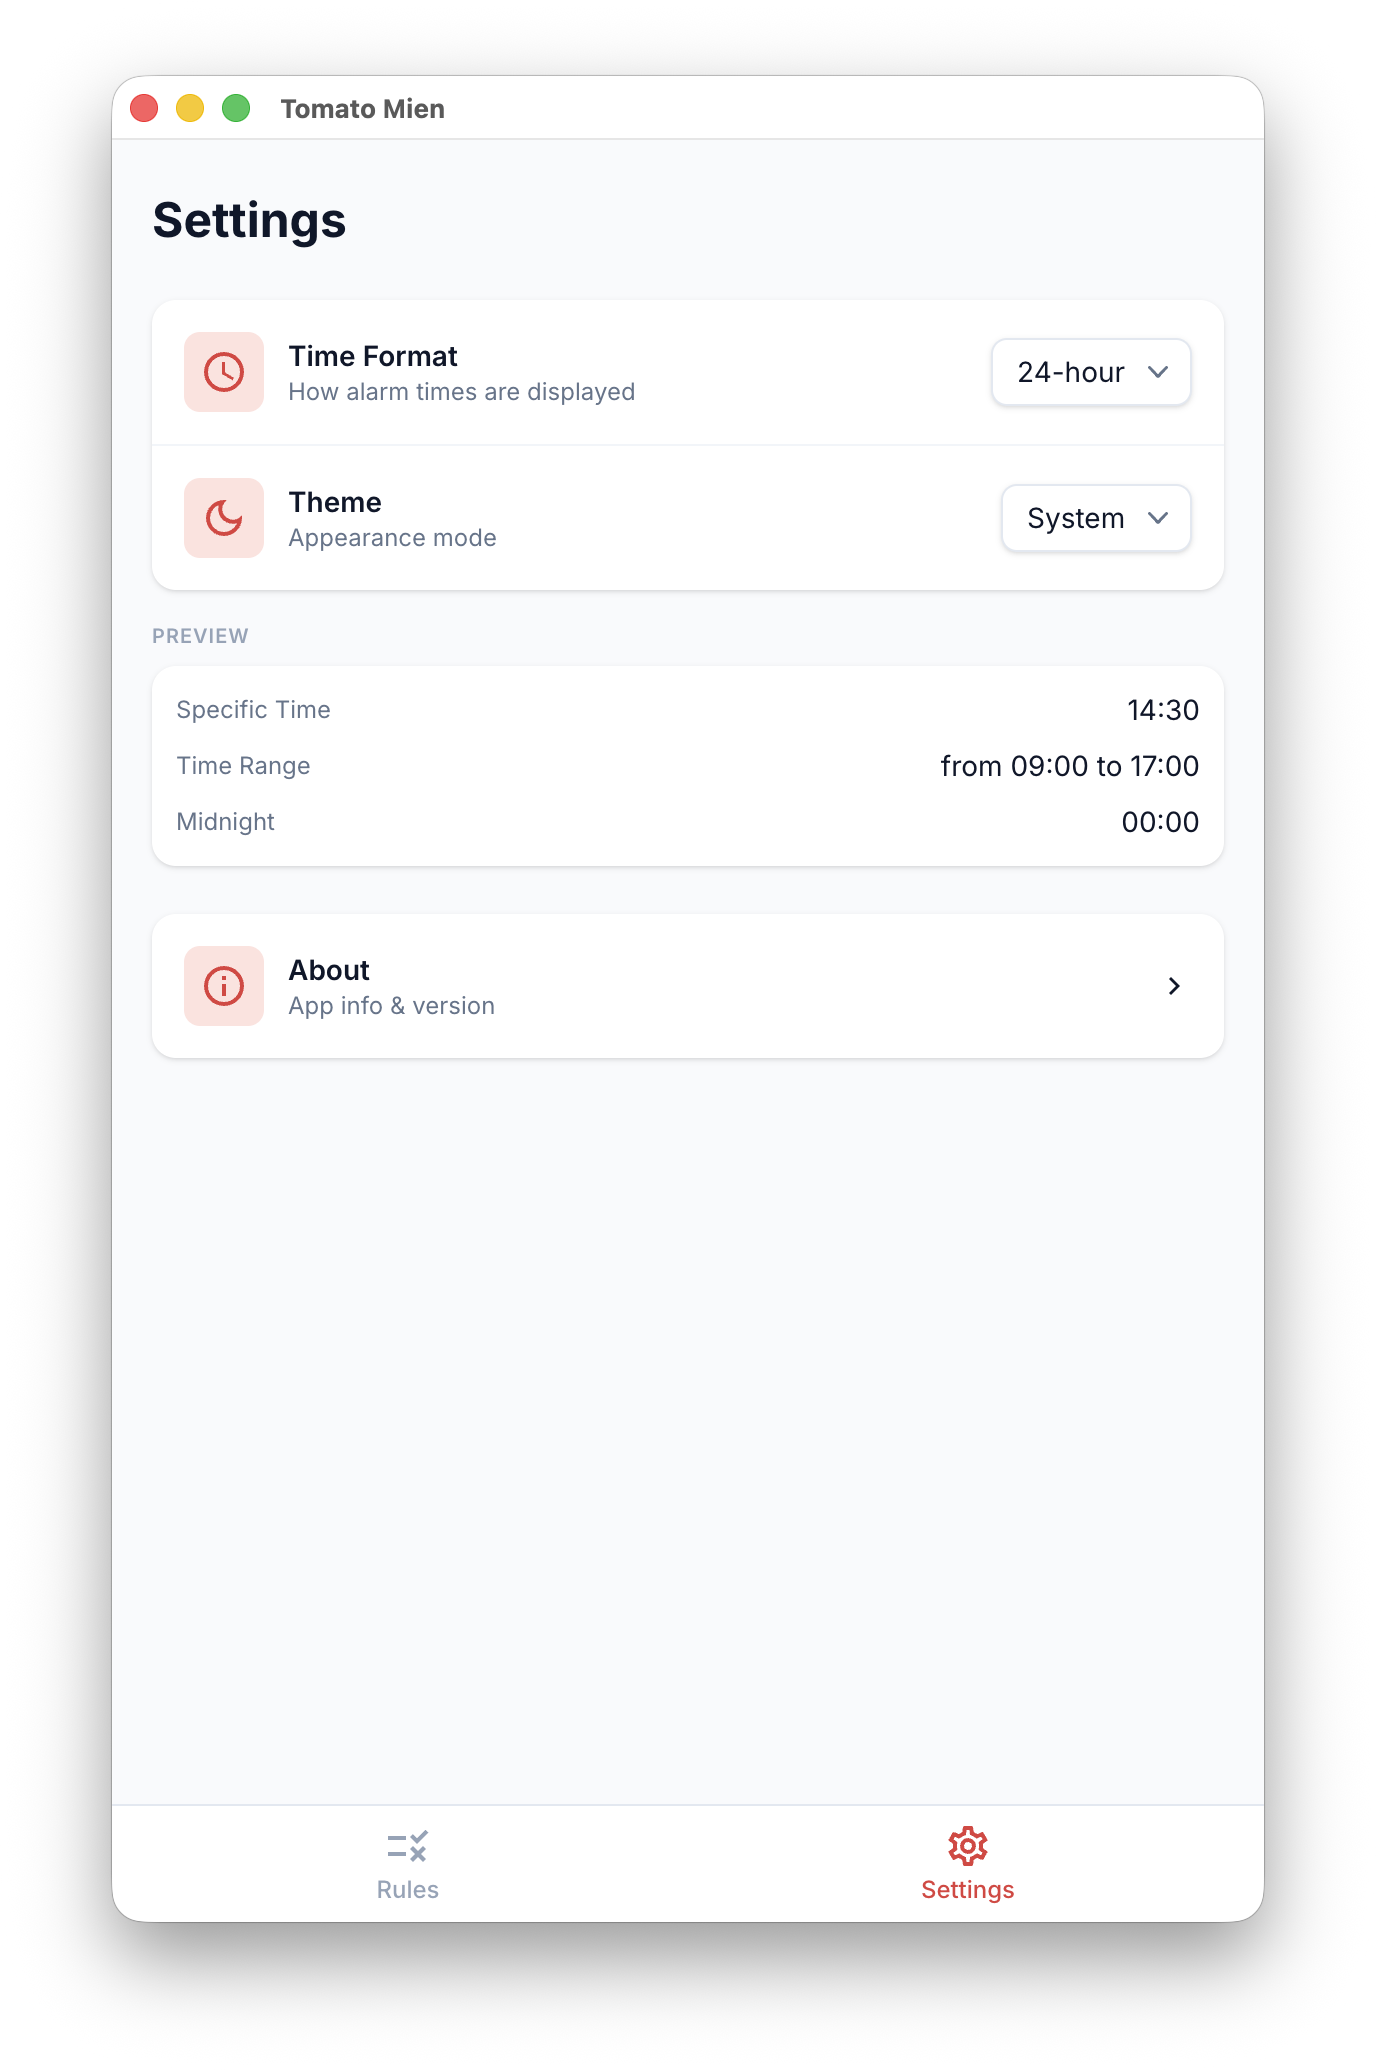
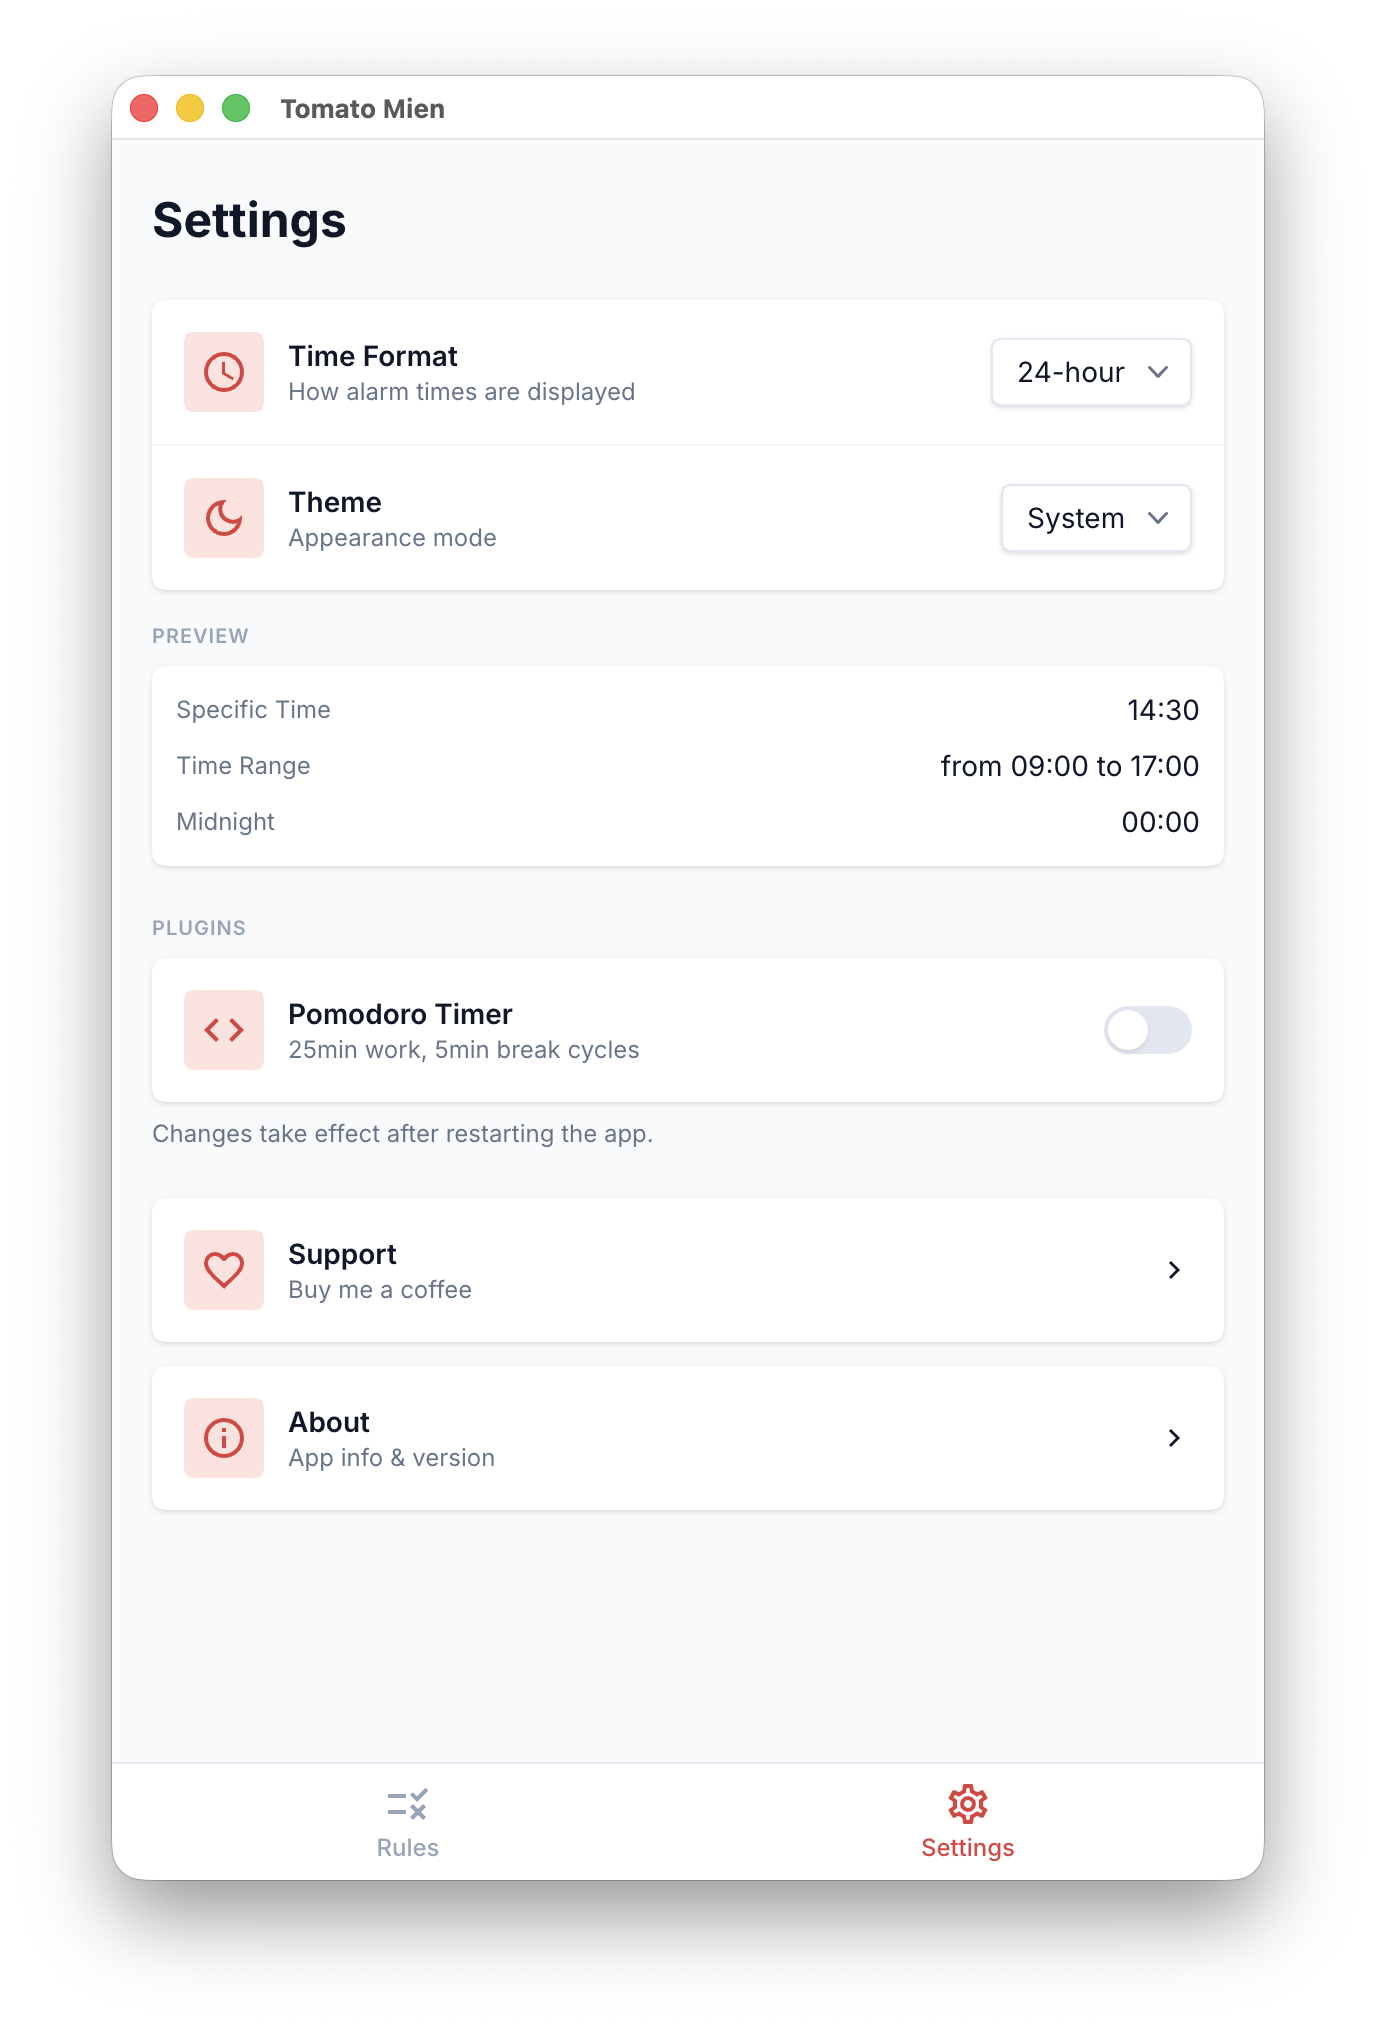
docs: 홍보 페이지 업데이트
- 포모도로 기능 추가
- 후원 QR 추가

diff --git a/packages/docs/src/index.html b/packages/docs/src/index.html
@@ -6,7 +6,7 @@
     <title>Tomato Mien - Simple Rule-Based Alarm App</title>
     <meta
       name="description"
-      content="Tomato Mien is a simple desktop app for setting up rule-based alarms. Define triggers (intervals, specific times) and filters (time ranges) to create your own alarm rules."
+      content="Tomato Mien is a desktop app for rule-based alarms and Pomodoro focus sessions. Create flexible reminder rules, enable the Pomodoro timer, and stay productive offline."
     />
 
     <link rel="canonical" href="https://einere.github.io/tomato-mien/" />
@@ -19,7 +19,7 @@
     />
     <meta
       property="og:description"
-      content="A simple desktop app for rule-based alarms. Define triggers and filters to get notified exactly when you need."
+      content="A desktop app for flexible alarm rules and focused Pomodoro sessions, with offline support and native notifications."
     />
     <meta
       property="og:image"
@@ -41,7 +41,7 @@
     />
     <meta
       name="twitter:description"
-      content="A simple desktop app for rule-based alarms. Define triggers and filters to get notified exactly when you need."
+      content="A desktop app for flexible alarm rules and focused Pomodoro sessions, with offline support and native notifications."
     />
     <meta
       name="twitter:image"
@@ -54,7 +54,7 @@
         "@context": "https://schema.org",
         "@type": "SoftwareApplication",
         "name": "Tomato Mien",
-        "description": "A simple desktop app for setting up rule-based alarms. Define triggers (intervals, specific times) and filters (time ranges) to create your own alarm rules.",
+        "description": "A desktop app for flexible rule-based alarms and Pomodoro focus sessions. Create reminder rules, manage settings, and stay productive offline.",
         "url": "https://einere.github.io/tomato-mien/",
         "applicationCategory": "UtilitiesApplication",
         "operatingSystem": "macOS, Windows, Linux",
@@ -78,6 +78,8 @@
           "Interval alarms (e.g. every 15, 25, 30 minutes)",
           "Specific time alarms (e.g. 2:30 PM)",
           "Time range filters to restrict when alarms fire",
+          "Optional Pomodoro timer with 25-minute focus and 5-minute break cycles",
+          "Plugin-based Pomodoro activation from Settings",
           "Background alarm evaluation via Web Worker",
           "Native desktop notifications with sound",
           "Rule management dashboard with search and sort",
@@ -123,6 +125,14 @@
             "acceptedAnswer": {
               "@type": "Answer",
               "text": "Click the + button to create a new rule, give it a name, add triggers (interval or specific time), optionally set filters (time ranges), and toggle the rule on."
+            }
+          },
+          {
+            "@type": "Question",
+            "name": "How do I enable the Pomodoro timer?",
+            "acceptedAnswer": {
+              "@type": "Answer",
+              "text": "Open Settings, go to the Plugins section, and turn on the Pomodoro Timer toggle. Restart the app to apply the change, then the Pomodoro tab will appear in the bottom navigation."
             }
           },
           {
@@ -453,7 +463,7 @@
         >
           Manage your alarm rules effortlessly with an intuitive interface
         </p>
-        <div class="grid gap-6 sm:grid-cols-2 lg:grid-cols-3">
+        <div class="grid gap-6 sm:grid-cols-2 lg:grid-cols-4">
           <div
             class="overflow-hidden rounded-2xl border border-gray-200 bg-white shadow-sm dark:border-gray-800 dark:bg-gray-900"
           >
@@ -492,8 +502,25 @@
             class="overflow-hidden rounded-2xl border border-gray-200 bg-white shadow-sm dark:border-gray-800 dark:bg-gray-900"
           >
             <img
+              src="assets/screenshots/pomodoro_screen.png"
+              alt="Tomato Mien Pomodoro screen with a circular timer, session progress dots, and a start button"
+              width="1376"
+              height="2070"
+              class="w-full"
+              loading="lazy"
+            />
+            <div class="p-4">
+              <p class="text-sm font-medium text-gray-600 dark:text-gray-400">
+                Pomodoro Timer
+              </p>
+            </div>
+          </div>
+          <div
+            class="overflow-hidden rounded-2xl border border-gray-200 bg-white shadow-sm dark:border-gray-800 dark:bg-gray-900"
+          >
+            <img
               src="assets/screenshots/settings_screen.png"
-              alt="Tomato Mien settings screen with time format, theme, preview section, and about menu"
+              alt="Tomato Mien settings screen with time format, theme, preview section, and Pomodoro plugin toggle"
               width="1376"
               height="2070"
               class="w-full"
@@ -853,6 +880,35 @@
             <summary
               class="flex cursor-pointer items-center justify-between p-6 font-semibold"
             >
+              How do I enable the Pomodoro timer?
+              <svg
+                aria-hidden="true"
+                focusable="false"
+                class="h-5 w-5 shrink-0 text-gray-500 transition-transform group-open:rotate-180"
+                fill="none"
+                stroke="currentColor"
+                stroke-width="2"
+                viewBox="0 0 24 24"
+              >
+                <path
+                  stroke-linecap="round"
+                  stroke-linejoin="round"
+                  d="M19 9l-7 7-7-7"
+                />
+              </svg>
+            </summary>
+            <div class="px-6 pb-6 text-gray-600 dark:text-gray-400">
+              Open Settings, go to the Plugins section, and turn on the
+              Pomodoro Timer toggle. Restart the app to apply the change, then
+              the Pomodoro tab will appear in the bottom navigation.
+            </div>
+          </details>
+          <details
+            class="group rounded-2xl border border-gray-200 bg-gray-50 dark:border-gray-800 dark:bg-gray-900"
+          >
+            <summary
+              class="flex cursor-pointer items-center justify-between p-6 font-semibold"
+            >
               Does it work in the background?
               <svg
                 aria-hidden="true"
@@ -1085,36 +1141,13 @@
             </a>
           </div>
         </div>
-        <!-- Build from source -->
-        <div
-          class="mt-8 rounded-2xl border border-gray-200 bg-gray-50 p-6 dark:border-gray-800 dark:bg-gray-900"
-        >
-          <h3 class="mb-3 text-lg font-semibold">Build from Source</h3>
-          <p class="mb-3 text-sm text-gray-600 dark:text-gray-400">
-            Requires <strong>Node.js 18+</strong> and <strong>npm 10+</strong>
-          </p>
-          <pre
-            class="overflow-x-auto rounded-lg bg-gray-900 p-4 text-sm text-gray-100 dark:bg-gray-950"
-          ><code>git clone https://github.com/Einere/tomato-mien.git
-cd tomato-mien
-npm install
-
-# Development (with hot reload)
-npm run electron:dev
-
-# Production build (run locally)
-npm run build
-npm run electron</code></pre>
-        </div>
       </div>
     </section>
 
-    <!-- Support (hidden for App Store review) -->
-    <!--
+    <!-- Support -->
     <section id="support" class="px-4 py-20 sm:py-28">
       <div class="mx-auto max-w-5xl">
         <div class="mb-12 text-center">
-          <div class="mb-4 text-5xl">&#9749;</div>
           <h2 class="mb-3 text-3xl font-bold tracking-tight sm:text-4xl">
             Support This Project
           </h2>
@@ -1123,37 +1156,7 @@ npm run electron</code></pre>
             support helps keep this project alive!
           </p>
         </div>
-        <div class="mx-auto grid max-w-2xl gap-6 sm:grid-cols-2">
-          <div
-            class="flex flex-col items-center rounded-2xl border border-gray-200 bg-gray-50 p-8 text-center dark:border-gray-800 dark:bg-gray-900"
-          >
-            <div class="mb-3 text-4xl">&#127819;</div>
-            <h3 class="mb-2 text-xl font-semibold">Lemon Squeezy</h3>
-            <p class="mb-6 text-sm text-gray-600 dark:text-gray-400">
-              Pay with credit card via Lemon Squeezy
-            </p>
-            <a
-              href="https://tomato-mien.lemonsqueezy.com/checkout/buy/5457327e-10c4-449a-b3c0-e63264a89720?discount=0"
-              target="_blank"
-              rel="noopener noreferrer"
-              class="bg-tomato-600 hover:bg-tomato-700 inline-flex items-center gap-2 rounded-xl px-6 py-3 font-semibold text-white shadow-sm transition hover:shadow-md"
-            >
-              Buy me a coffee
-              <svg
-                class="h-4 w-4"
-                fill="none"
-                stroke="currentColor"
-                stroke-width="2"
-                viewBox="0 0 24 24"
-              >
-                <path
-                  stroke-linecap="round"
-                  stroke-linejoin="round"
-                  d="M14 5l7 7m0 0l-7 7m7-7H3"
-                />
-              </svg>
-            </a>
-          </div>
+        <div class="mx-auto max-w-md">
           <div
             class="flex flex-col items-center rounded-2xl border border-gray-200 bg-gray-50 p-8 text-center dark:border-gray-800 dark:bg-gray-900"
           >
@@ -1162,39 +1165,37 @@ npm run electron</code></pre>
             <p class="mb-6 text-sm text-gray-600 dark:text-gray-400">
               Scan QR code with the Toss app
             </p>
-            <button
-              id="toss-toggle"
-              type="button"
-              class="inline-flex items-center gap-2 rounded-xl border border-gray-300 px-6 py-3 font-semibold transition hover:border-gray-400 hover:bg-gray-100 dark:border-gray-700 dark:hover:border-gray-600 dark:hover:bg-gray-800"
-            >
-              Show QR Code
-              <svg
-                id="toss-chevron"
-                class="h-4 w-4 transition-transform"
-                fill="none"
-                stroke="currentColor"
-                stroke-width="2"
-                viewBox="0 0 24 24"
+            <details class="group w-full">
+              <summary
+                class="mx-auto inline-flex cursor-pointer list-none items-center gap-2 rounded-xl border border-gray-300 px-6 py-3 font-semibold transition hover:border-gray-400 hover:bg-gray-100 dark:border-gray-700 dark:hover:border-gray-600 dark:hover:bg-gray-800"
               >
-                <path
-                  stroke-linecap="round"
-                  stroke-linejoin="round"
-                  d="M19 9l-7 7-7-7"
+                Show QR Code
+                <svg
+                  class="h-4 w-4 transition-transform group-open:rotate-180"
+                  fill="none"
+                  stroke="currentColor"
+                  stroke-width="2"
+                  viewBox="0 0 24 24"
+                >
+                  <path
+                    stroke-linecap="round"
+                    stroke-linejoin="round"
+                    d="M19 9l-7 7-7-7"
+                  />
+                </svg>
+              </summary>
+              <div class="mt-6 flex justify-center">
+                <img
+                  src="assets/toss_qr.png"
+                  alt="Toss QR code for donation"
+                  class="h-48 w-48 rounded-lg"
                 />
-              </svg>
-            </button>
-            <div id="toss-qr" class="mt-6 hidden">
-              <img
-                src="assets/toss_qr.png"
-                alt="Toss QR code for donation"
-                class="h-48 w-48 rounded-lg"
-              />
-            </div>
+              </div>
+            </details>
           </div>
         </div>
       </div>
     </section>
-    -->
 
     </main>
 
@@ -1212,15 +1213,6 @@ npm run electron</code></pre>
           >
             GitHub
           </a>
-          <!-- hidden for App Store review
-          <span class="text-gray-300 dark:text-gray-700">|</span>
-          <a
-            href="#support"
-            class="transition hover:text-gray-900 dark:hover:text-gray-300"
-          >
-            Support
-          </a>
-          -->
           <span class="text-gray-300 dark:text-gray-700">|</span>
           <a
             href="https://github.com/Einere/tomato-mien/issues"
@@ -1241,19 +1233,6 @@ npm run electron</code></pre>
     </footer>
 
     <script>
-      // Toss QR toggle (hidden for App Store review)
-      // const toggle = document.getElementById("toss-toggle");
-      // const qr = document.getElementById("toss-qr");
-      // const chevron = document.getElementById("toss-chevron");
-      //
-      // toggle.addEventListener("click", () => {
-      //   const isHidden = qr.classList.toggle("hidden");
-      //   chevron.style.transform = isHidden ? "" : "rotate(180deg)";
-      //   toggle.firstChild.textContent = isHidden
-      //     ? "Show QR Code"
-      //     : "Hide QR Code";
-      // });
-
       // OS detection & auto-download
       (function () {
         const API_URL =

diff --git a/packages/docs/src/privacy.html b/packages/docs/src/privacy.html
@@ -83,8 +83,9 @@
             Data Storage
           </h2>
           <p>
-            All data (alarm rules, app settings) is stored locally on your device
-            using IndexedDB. No data is transmitted to external servers.
+            All data, including alarm rules, app settings, and Pomodoro-related
+            preferences, is stored locally on your device using IndexedDB. No
+            data is transmitted to external servers.
           </p>
         </section>
 
